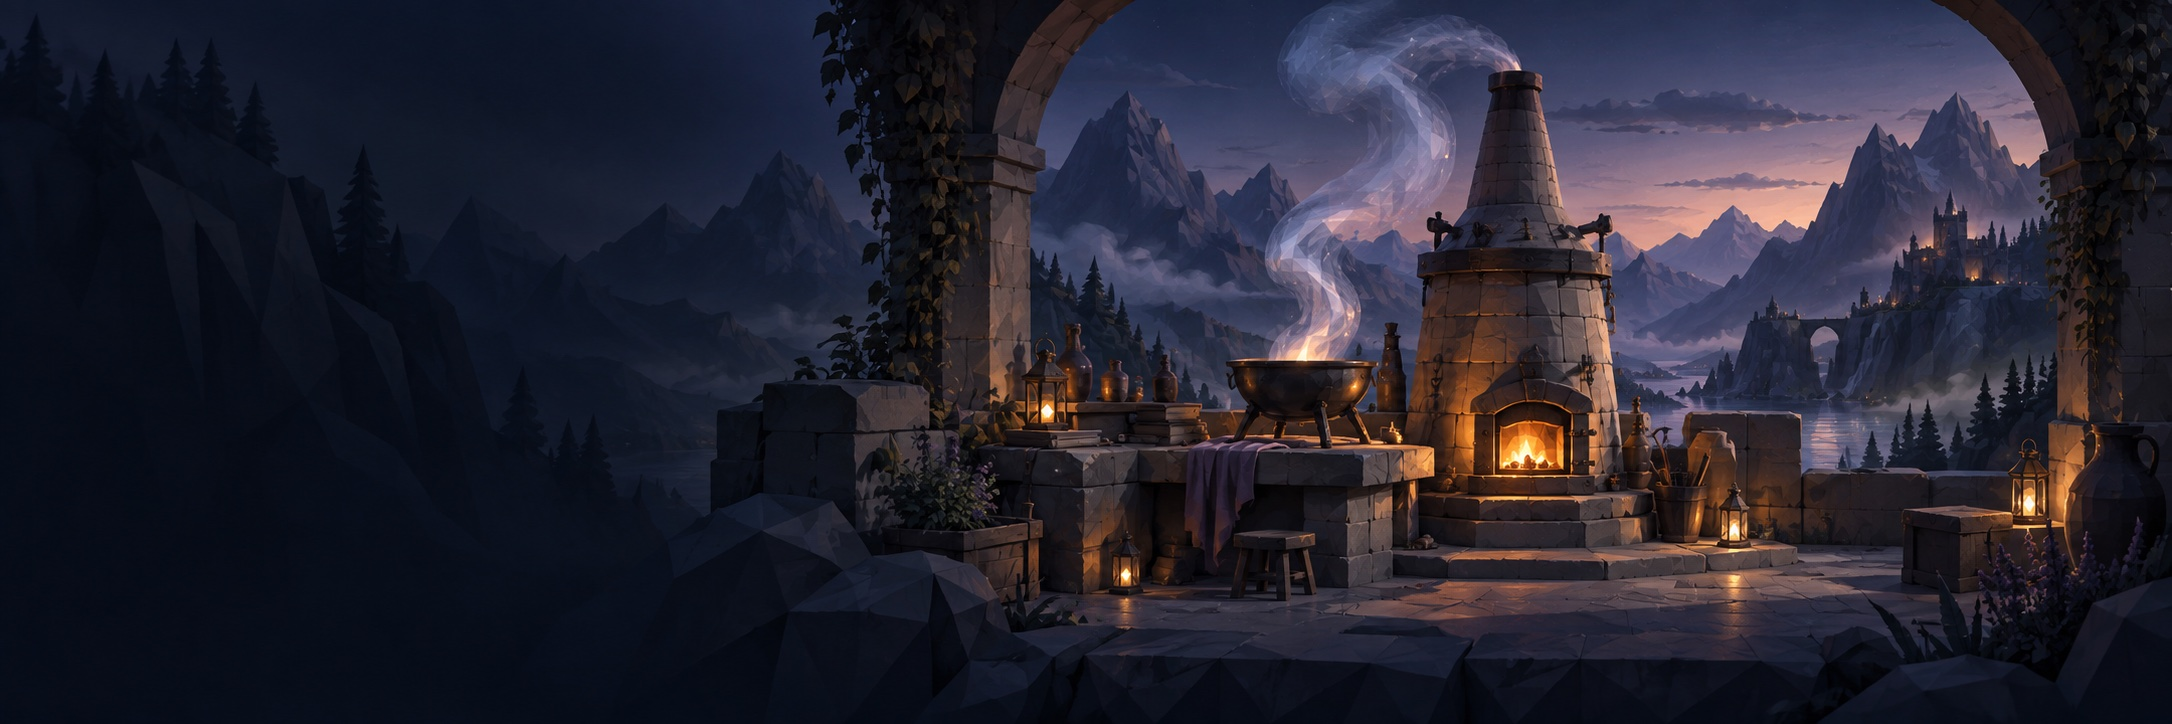
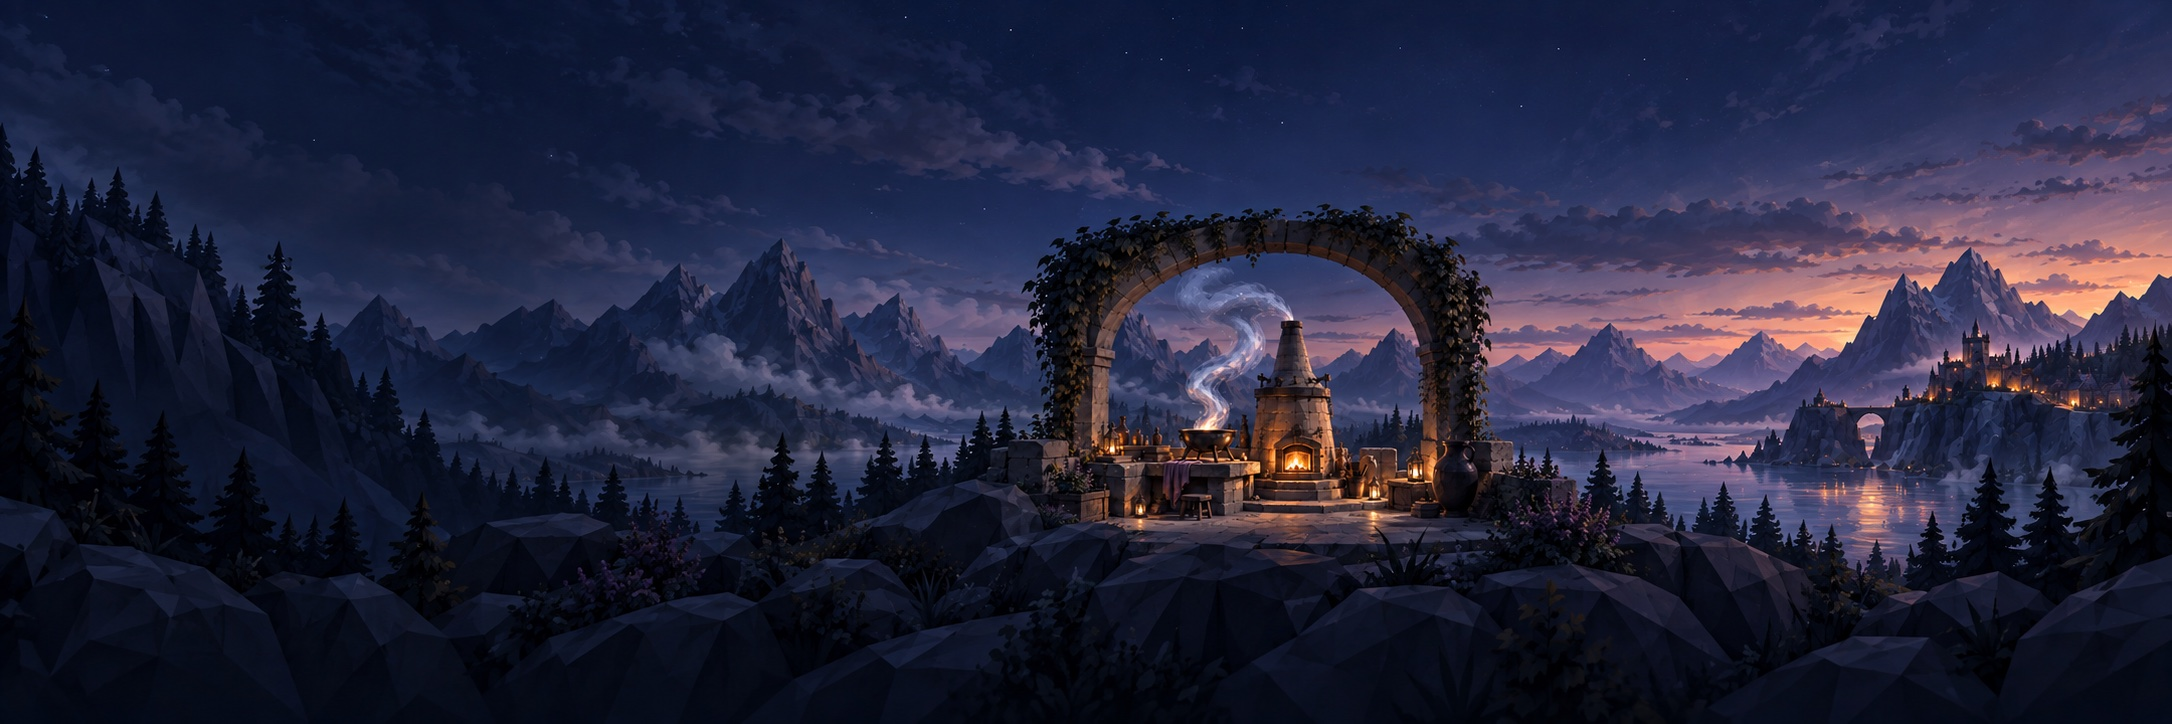
WIZ-423 Center and zoom Athanor panorama with motion-only smoke progress

diff --git a/smoke/public/smoke-theme.css b/smoke/public/smoke-theme.css
@@ -5,7 +5,7 @@
   --control-accent: #447ab0;
   --control-hover: #5385b6;
   --brand-smoke: url('/brand-smoke.png');
-  --scene-width: clamp(330px, 34.5vw, 465px);
+  --scene-size: max(120%, 414px);
 }
 body {
   min-height: 100vh;
@@ -36,7 +36,7 @@ body::after {
   animation: smoke-drift 28s ease-in-out infinite alternate;
 }
 .page-header h1, main > header > span, .top > span { color: #c7ddf1; }
-.page-header, .report-banner { position: relative; isolation: isolate; min-height: clamp(110px, 11.5vw, 155px); }
+.page-header, .report-banner { position: relative; isolation: isolate; min-height: clamp(138px, 14.375vw, 194px); }
 .page-header::before, .report-banner::before {
   content: "";
   position: absolute;
@@ -44,9 +44,9 @@ body::after {
   inset: 0 calc(50% - 50vw);
   border-bottom: 1px solid #789bb338;
   background-color: #101925;
-  background-image: linear-gradient(90deg, #101925 calc(100% - var(--scene-width)), #10192515 calc(100% - var(--scene-width) + 100px), #10192520), url('/athanor-scene.jpg');
-  background-position: center, right center;
-  background-size: 100% 100%, auto 100%;
+  background-image: linear-gradient(90deg, #10192566, transparent 44%, #10192518), url('/athanor-scene.jpg');
+  background-position: center;
+  background-size: 100% 100%, var(--scene-size) auto;
   background-repeat: no-repeat;
   box-shadow: inset 0 -24px 20px -18px #181c22;
   pointer-events: none;
@@ -61,16 +61,15 @@ body::after {
   animation: brand-float 9s ease-in-out infinite alternate;
 }
 .page-header h1.smoke-brand { font-family: Georgia, 'Times New Roman', serif; font-size: 36px; line-height: 1.1; font-weight: 700; letter-spacing: .01em; }
-.brand-moniker { display: block; padding-left: 32px; margin-top: 4px; font-size: 15px; font-weight: 400; letter-spacing: .03em; color: #c3d5e8; }
 .smoke-brand::before, .smoke-brand::after {
   content: "";
   position: absolute;
   z-index: -1;
   pointer-events: none;
   width: calc(100% + 100px);
-  height: 105px;
+  height: 85px;
   left: -50px;
-  top: -30px;
+  top: -23px;
   background-image: var(--brand-smoke);
   background-size: contain;
   background-repeat: no-repeat;
@@ -78,31 +77,29 @@ body::after {
   filter: drop-shadow(0 7px 8px #06122270);
 }
 .smoke-brand::before {
-  opacity: .5;
+  opacity: .28;
   animation: brand-cloud 13s ease-in-out infinite alternate;
 }
 .smoke-brand::after {
-  opacity: .16;
-  top: -24px;
+  opacity: .08;
+  top: -18px;
   animation: brand-cloud 19s -7s ease-in-out infinite alternate-reverse;
 }
 .brand-spark { color: #b8daf6; margin-right: 9px; font-size: .85em; text-shadow: 0 0 12px #80c3f0; }
 .smoke-brand-compact { font-size: 14px; letter-spacing: .01em; }
-.smoke-brand-compact::before, .smoke-brand-compact::after { height: 90px; top: -30px; opacity: .3; }
-.report-banner { --scene-width: 285px; align-items: center; min-height: 95px; }
+.smoke-brand-compact::before, .smoke-brand-compact::after { height: 75px; top: -24px; opacity: .2; }
+.report-banner { --scene-size: max(120%, 357px); align-items: center; min-height: 119px; }
 .report-banner .smoke-brand { font-family: Georgia, 'Times New Roman', serif; font-size: 24px; }
-.header-actions { position: relative; z-index: 1; margin-right: calc(var(--scene-width) - 24px); padding: 7px 11px; background: #111b28b3; border-radius: 6px; }
+.header-actions { position: relative; z-index: 1; padding: 7px 11px; background: #111b28b3; border-radius: 6px; }
 .header-actions .text-button, .header-actions summary { color: #c3d5e8; }
 @keyframes brand-float { from { transform: translateY(1px); } to { transform: translateY(-2px); } }
 @keyframes brand-cloud {
   from { transform: translate(-5px, 3px) scale(.94, .9); }
   to { transform: translate(6px, -6px) scale(1.04, 1.08); }
 }
-@media(max-width:760px) { .header-actions { margin-right: 0; } }
 @media(max-width:600px) {
   .page-header h1.smoke-brand { font-size: 28px; }
-  .brand-moniker { font-size: 14px; padding-left: 25px; }
-  .page-header { min-height: 110px; flex-wrap: wrap; align-content: center; gap: 12px; }
+  .page-header { min-height: 138px; flex-wrap: wrap; align-content: center; gap: 12px; }
   .header-actions { padding: 5px 7px; }
   .header-actions .text-button, .header-actions summary { font-size: 11px; }
   .smoke-brand::before, .smoke-brand::after { width: calc(100% + 40px); left: -20px; }
@@ -213,23 +210,21 @@ tr[data-test]:hover, tr[data-run]:hover, tr[data-result]:hover,
 }
 .run-progress .segment { position: relative; border-radius: 8px; box-shadow: 0 1px 0 #ffffff35 inset; }
 .run-progress .segment[style="width:0%"] { display: none; }
-.run-progress .segment::before {
+.run-progress[data-active="true"] .segment { overflow: hidden; }
+.run-progress[data-active="true"] .segment::before {
   content: "";
   position: absolute;
   pointer-events: none;
-  left: 0;
-  right: 0;
-  top: -19px;
-  height: 42px;
+  inset: -12px 0;
   background-image: var(--brand-smoke);
   background-size: auto 38px;
-  background-position: center;
+  background-position: 0 center;
   background-repeat: repeat-x;
   filter: brightness(.8) saturate(.3);
   opacity: .45;
   border-radius: inherit;
+  animation: progress-smoke 6s linear infinite;
 }
-.run-progress[data-active="true"] .segment::before { animation: progress-wisp 8s -3s ease-in-out infinite alternate; }
 .run-progress .segment.pass { background: linear-gradient(180deg, #80c69c, #4d9570); }
 .run-progress .segment.fail { background: linear-gradient(180deg, #e89191, #b65c67); }
 .run-progress .segment.blocked { background: linear-gradient(180deg, #e6c284, #bb8e4f); }
@@ -260,10 +255,11 @@ dialog::backdrop { background: #0d141db0; }
   to { transform: translate3d(3%, -5%, 0); opacity: .95; }
 }
 @keyframes progress-flow { from { background-position: 100% 0; } to { background-position: -120% 0; } }
-@keyframes progress-wisp { from { transform: translate(0, 2px) scaleY(.8); opacity: .35; } to { transform: translate(4px, -3px) scaleY(1.2); opacity: .65; } }
+@keyframes progress-smoke { from { background-position: 0 center; } to { background-position: 114px center; } }
 @keyframes smoke-reveal { from { opacity: .5; transform: translateY(6px); } to { opacity: 1; transform: translateY(0); } }
 @media (prefers-reduced-motion: reduce) {
   *, *::before, *::after { animation: none !important; transition: none !important; }
+  .run-progress .segment::before { content: none; }
 }
 @media print {
   body::before, body::after { display: none; }

diff --git a/smoke/public/app.js b/smoke/public/app.js
@@ -21,7 +21,7 @@ const options=(values,current,empty)=>`${empty?`<option value="">${esc(empty)}</
 function filtered(){return catalog.tests.filter(t=>(!state.runnableOnly||Boolean(t.automation))&&(!state.course||t.course===state.course)&&(!state.area||t.area===state.area)&&(!state.execution||t.execution===state.execution)&&(!state.readiness||t.readiness===state.readiness)&&(!state.priority||t.priority===state.priority)&&(!state.owner||t.owner===state.owner)&&(!state.search||[t.id,t.title,t.criteria,t.area,t.owner,t.sourceId,t.notes].join(' ').toLowerCase().includes(state.search.toLowerCase()))).sort((a,b)=>String(a[state.sort]||'').localeCompare(String(b[state.sort]||''),undefined,{numeric:true})*state.direction);}
 function runCounts(run){const totals=Object.fromEntries(statuses.map(s=>[s,run.results.filter(r=>r.status===s).length]));return {...totals,total:run.results.length,checked:totals.Pass+totals.Fail+totals['N/A'],resolved:totals.Pass+totals.Fail+totals['N/A']};}
 function progress(run){return progressBar(run.results,run.execution?.state);}
-function shell(){return `<main><header class="page-header"><div><h1 class="smoke-brand"><span class="brand-spark" aria-hidden="true">✦</span>Athanor <span class="brand-moniker">Smoke</span></h1></div><div class="header-actions"><a class="text-button" href="/explainer">Test guide ↗</a><details class="workspace-menu"><summary>More</summary><div><button class="text-button" data-tab="desktop">Desktop tools</button><button class="text-button" data-tab="gp">Test fixtures</button><button class="text-button" data-tab="coverage">Coverage</button><button class="text-button" data-tab="checklist">Original checklist</button><button class="text-button" data-action="new-test">Add test</button><button class="text-button" data-action="new-run">Record manual run</button>${catalog.historyUrl?'<a class="text-button" href="/history" target="_blank" rel="noopener">Earlier history ↗</a>':''}<button class="text-button" data-action="backup">Export workspace</button><button class="text-button" data-action="source">Source information</button></div></details></div></header>
+function shell(){return `<main><header class="page-header"><div><h1 class="smoke-brand"><span class="brand-spark" aria-hidden="true">✦</span>Athanor</h1></div><div class="header-actions"><a class="text-button" href="/explainer">Test guide ↗</a><details class="workspace-menu"><summary>More</summary><div><button class="text-button" data-tab="desktop">Desktop tools</button><button class="text-button" data-tab="gp">Test fixtures</button><button class="text-button" data-tab="coverage">Coverage</button><button class="text-button" data-tab="checklist">Original checklist</button><button class="text-button" data-action="new-test">Add test</button><button class="text-button" data-action="new-run">Record manual run</button>${catalog.historyUrl?'<a class="text-button" href="/history" target="_blank" rel="noopener">Earlier history ↗</a>':''}<button class="text-button" data-action="backup">Export workspace</button><button class="text-button" data-action="source">Source information</button></div></details></div></header>
 <nav class="tabs" aria-label="Workspace views" role="tablist">${[['setup','Run tests'],['runs','Results'],['catalog','Checks']].map(([v,label])=>`<button role="tab" aria-selected="${state.tab===v}" class="${state.tab===v?'active':''}" data-tab="${v}">${label}</button>`).join('')}</nav>
 ${state.tab==='catalog'?`<label class="mobile-course">Catalog group <select id="mobile-course">${options(courses,state.course,'All tests')}</select></label>`:''}<div id="content">${state.tab==='setup'?runSetupView(catalog.runner?.active):state.tab==='desktop'?desktopView():state.tab==='catalog'?catalogView():state.tab==='gp'?gpView():state.tab==='coverage'?coverageView():state.tab==='checklist'?checklistView():runsView()}</div></main>`;}
 function automatedResultDialog(run,r){dialog(`<div class="dialog-top"><div><span class="dialog-eyebrow">${esc(r.test_id)} · Automated evidence</span><h2>${esc(r.snapshot.title)}</h2></div><button class="icon-button close-dialog" aria-label="Close">×</button></div>${tag(r.status)}<div class="expected-box"><strong>Expected</strong><p>${esc(r.snapshot.expected)}</p></div><p>${esc(r.note||'This check has not run yet.')}</p><details class="technical"><summary>Details</summary><p class="export-path">${esc(r.evidence||run.execution.artifact_root)}</p></details><button class="button" data-action="report-check" data-check-id="${esc(r.test_id)}" ${['Queued','Preflight','Running','Continuing'].includes(run.execution.state)?'disabled':''}>View steps and evidence</button><button class="button close-dialog">Done</button>`);}

diff --git a/smoke/public/design-preview.html b/smoke/public/design-preview.html
@@ -1,0 +1,42 @@
+<!doctype html>
+<html lang="en">
+<head>
+  <meta charset="utf-8"><meta name="viewport" content="width=device-width,initial-scale=1">
+  <title>Progress motion · Athanor</title>
+  <link rel="stylesheet" href="/wizard-tokens.css"><link rel="stylesheet" href="/smoke-theme.css">
+  <style>
+    *{box-sizing:border-box}body{margin:0;font:14px/1.6 var(--font-ui)}main{max-width:1000px;margin:auto;padding:0 24px 36px}
+    .page-header{display:flex;align-items:center;margin-bottom:24px}h1{margin:0}h2{font-size:24px;margin:0 0 8px}h3{font-size:17px;margin:0 0 8px}
+    p{color:#a2b3c5;margin:0 0 20px}a{color:#8cbee7}label{display:inline-flex;gap:10px;align-items:center;padding:10px 14px;border:1px solid #485768;border-radius:6px;cursor:pointer}
+    input{accent-color:#8cbee7}section{margin-top:22px;padding:24px;background:#232b34;border:1px solid #3b4857;border-radius:8px}
+    .run-progress{margin:24px 0 12px}.demo-fill{display:flex;animation:demo-fill 18s ease-in-out infinite;min-width:0}
+    .swirl .run-progress[data-active="true"] .segment::before{animation:preview-swirl 5s ease-in-out infinite alternate}
+    .swirl .run-progress[data-active="true"] .segment.running{animation-duration:5s}
+    body:has(#still:checked) .segment::before{content:none!important;animation:none!important}
+    body:has(#still:checked) .segment,body:has(#still:checked) .demo-fill{animation:none!important}
+    body:has(#still:checked) .demo-fill{width:100%}
+    .caption{font-size:12px;color:#92a4b8;margin:10px 0 0}
+    @keyframes demo-fill{0%,12%{width:12%}85%,100%{width:100%}}
+    @keyframes preview-swirl{from{transform:translate(-8px,3px) scale(1.15,.9);opacity:.25}to{transform:translate(8px,-3px) scale(1.15,1.15);opacity:.55}}
+    @media(prefers-reduced-motion:reduce){.demo-fill{width:100%}}
+    @media(max-width:600px){main{padding:0 16px 24px}section{padding:18px}}
+  </style>
+</head>
+<body><main>
+  <header class="page-header"><h1 class="smoke-brand"><span class="brand-spark" aria-hidden="true">✦</span>Athanor</h1></header>
+  <h2>Progress motion</h2><p>Two animation studies, using the same result colors. The sample bars fill over 18 seconds and repeat.</p>
+  <label><input id="still" type="checkbox">Show finished bars</label>
+  <section>
+    <h3>A · Rolling smoke</h3><p>Smoke flows forward inside the colored fill. This is the current treatment.</p>
+    <div class="run-progress" data-active="true" aria-hidden="true"><div class="demo-fill">
+      <span class="segment pass" style="width:70%"></span><span class="segment fail" style="width:10%"></span><span class="segment blocked" style="width:10%"></span><span class="segment running" style="width:10%"></span>
+    </div></div><p class="caption">Green · Pass &nbsp; Red · Fail &nbsp; Amber · Blocked &nbsp; Blue · Running</p>
+  </section>
+  <section class="swirl">
+    <h3>B · Gentle swirl</h3><p>A slower cloud rolls and breathes within the fill.</p>
+    <div class="run-progress" data-active="true" aria-hidden="true"><div class="demo-fill">
+      <span class="segment pass" style="width:70%"></span><span class="segment fail" style="width:10%"></span><span class="segment blocked" style="width:10%"></span><span class="segment running" style="width:10%"></span>
+    </div></div><p class="caption">Green · Pass &nbsp; Red · Fail &nbsp; Amber · Blocked &nbsp; Blue · Running</p>
+  </section>
+  <p style="margin-top:24px"><a href="/">← Back to Athanor</a></p>
+</main></body></html>

diff --git a/smoke/public/explainer.html b/smoke/public/explainer.html
@@ -1,6 +1,6 @@
 <!doctype html>
 <html lang="en"><head><meta charset="utf-8"><meta name="viewport" content="width=device-width,initial-scale=1"><title>Smoke test field guide · Athanor</title><link rel="icon" href="/favicon.svg"><link rel="stylesheet" href="/explainer.css"><link rel="stylesheet" href="/smoke-theme.css"><script type="module" src="/explainer.js"></script></head>
-<body><a class="skip" href="#catalog">Skip to tests</a><header class="top"><a href="/">← Smoke dashboard</a><span class="smoke-brand smoke-brand-compact">ATHANOR <span class="slash">/</span> SMOKE FIELD GUIDE</span><span class="local">Read-only · Local</span></header>
+<body><a class="skip" href="#catalog">Skip to tests</a><header class="top"><a href="/">← Athanor</a><span class="smoke-brand smoke-brand-compact">ATHANOR FIELD GUIDE</span><span class="local">Read-only · Local</span></header>
 <main><div class="heading"><div><div class="eyebrow">AUTOMATION, EXPLAINED</div><h1>What our smoke tests prove.</h1><p>Follow a test from the user path to the automation, its assertions, and the evidence left behind.</p></div><div class="total"><strong id="total">—</strong><span>scripted checks</span></div></div>
 <div class="notice"><span class="notice-dot"></span><p><strong>Historical evidence. Current definitions.</strong> The expanded 77-check foreground course still awaits a completed validation run. Focused probes and earlier course results are labeled separately.</p></div>
 <details class="guide"><summary>How to read this page <span>Evidence ≠ a green command</span></summary><div class="guide-grid"><section><h3>01 · Exercise behavior</h3><p>The packaged engine uses shipped CLI operations. Desktop checks add real Qt controls and an instrumented local app. Service checks exercise background operations. These are different kinds of coverage.</p></section><section><h3>02 · Assert an outcome</h3><p>Read back identities, timing, saved state or actual media output. A successful dispatch is insufficient. Each detail panel explains the expected outcome and how the check verifies it.</p></section><section><h3>03 · Keep the limits visible</h3><p>Pass describes a retained run. Blocked means the requirement was not established. One script may cover only part of Logan’s original path. Newer attempts can be affected by the harness or environment.</p></section></div><p class="guide-foot">The reference column combines selected historical records; it is not a release pass rate. Technical evidence and source code are available through “Troubleshoot this check.”</p></details>

diff --git a/smoke/public/run-display.js b/smoke/public/run-display.js
@@ -1,4 +1,5 @@
 const activeStates = new Set(['Queued', 'Preflight', 'Running', 'Waiting for human', 'Continuing']);
+const movingStates = new Set(['Preflight', 'Running', 'Continuing']);
 const completedStates = new Set(['Passed', 'Failed']);
 const outcomes = ['Pass', 'Fail', 'Blocked', 'Running', 'N/A', 'Unknown'];
 
@@ -37,5 +38,5 @@ export function progressBar(results, state) {
   const total = results.length, counts = Object.fromEntries(outcomes.map(s => [s, results.filter(r => r.status === s).length]));
   const completed = total - results.filter(r => ['Not run', 'Running'].includes(r.status)).length;
   const description = outcomes.filter(s => counts[s]).map(s => counts[s] + ' ' + s.toLowerCase()).join(', ') || 'No checks recorded';
-  return `<div class="run-progress" data-active="${activeStates.has(state)}" role="progressbar" aria-label="Check progress" aria-valuemin="0" aria-valuemax="${total || 1}" aria-valuenow="${completed}" aria-valuetext="${description}">${outcomes.map(s => `<span class="segment ${s.toLowerCase().replace(/[^a-z]+/g, '-')}" style="width:${total ? 100 * counts[s] / total : 0}%" title="${s}: ${counts[s]}"></span>`).join('')}</div>`;
+  return `<div class="run-progress" data-active="${movingStates.has(state)}" role="progressbar" aria-label="Check progress" aria-valuemin="0" aria-valuemax="${total || 1}" aria-valuenow="${completed}" aria-valuetext="${description}">${outcomes.map(s => `<span class="segment ${s.toLowerCase().replace(/[^a-z]+/g, '-')}" style="width:${total ? 100 * counts[s] / total : 0}%" title="${s}: ${counts[s]}"></span>`).join('')}</div>`;
 }

diff --git a/smoke/public/index.html b/smoke/public/index.html
@@ -2,8 +2,8 @@
 <html lang="en">
 <head>
   <meta charset="utf-8"><meta name="viewport" content="width=device-width, initial-scale=1">
-  <title>Athanor · Smoke</title>
-  <meta name="description" content="Athanor, known as Smoke: run Wizard tests, inspect results and review evidence.">
+  <title>Athanor</title>
+  <meta name="description" content="Athanor: run Wizard tests, inspect results and review evidence.">
   <link rel="icon" href="/favicon.svg"><link rel="stylesheet" href="/style.css"><link rel="stylesheet" href="/wizard-theme.css"><link rel="stylesheet" href="/smoke-theme.css">
 </head>
 <body><div id="app"><div class="boot">Opening your test workspace…</div></div><div id="overlays"></div><div id="toast" role="status" aria-live="polite"></div><script type="module" src="/app.js"></script></body>
